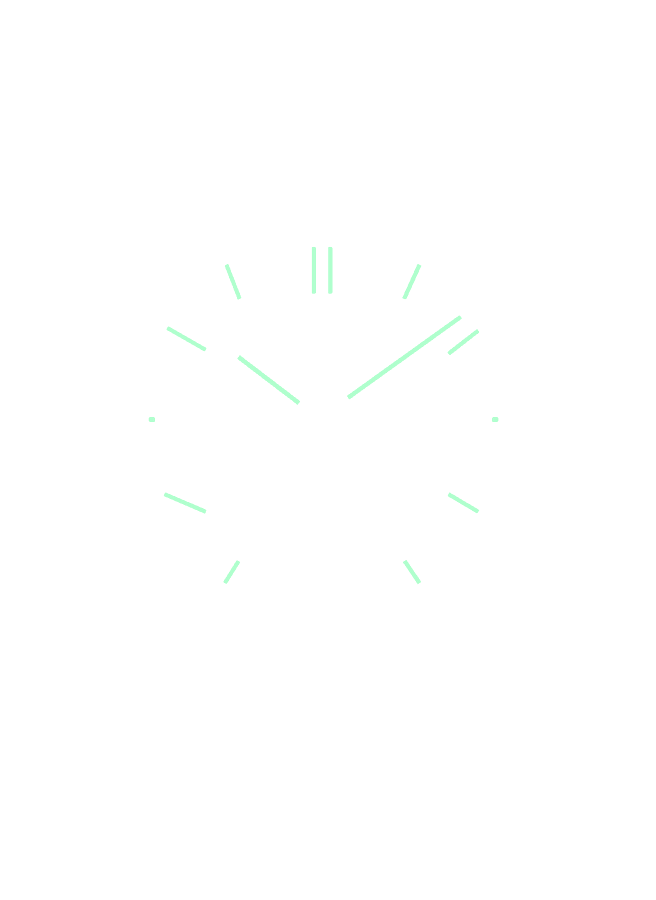
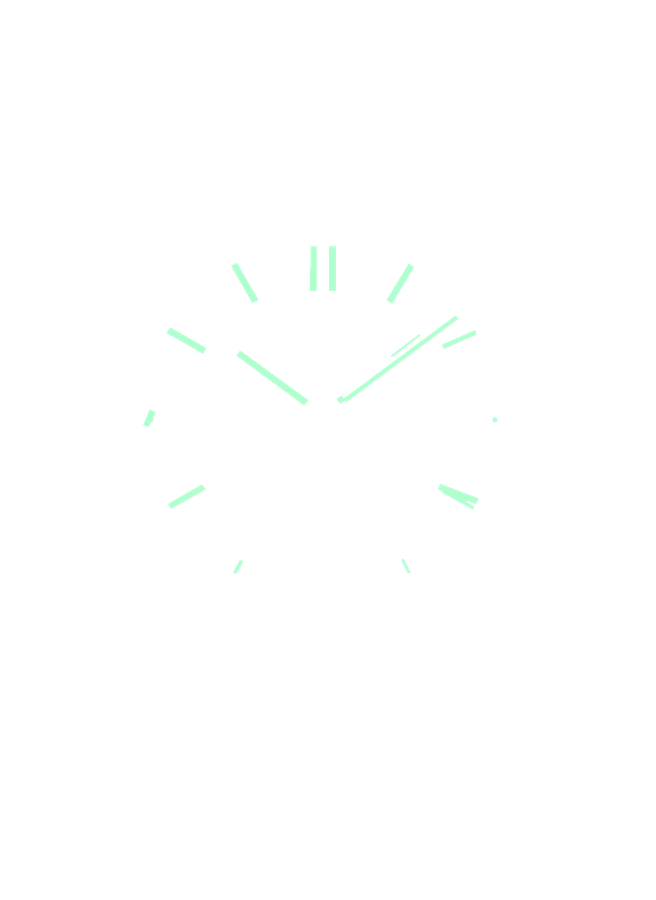
Nautilus 5711 weiß und 5740: genauere Leuchtmasken (aus dem Foto vermessen); 5740 in den Lexikonartikeln Ewiger Kalender, Mondphase und Mikrorotor
Claude-Session: https://claude.ai/code/session_01Wip4uNf6vaKskYPqRYzAdm

diff --git a/index.html b/index.html
@@ -696,7 +696,7 @@ const BRAND_STYLE = {
   "Laco": { s: 6, w: 700, ls: 1.6, o: "" }
 };
 
-const IMGV = "2026112516"; // bei neuen Bildern hochzählen (Cache)
+const IMGV = "2026112517"; // bei neuen Bildern hochzählen (Cache)
 function drawWatch(v = {}, e = null) {
   if (v.img) {
     const base = `<img class="watch wimg" src="${v.img}?v=${IMGV}" alt="${esc(((e && (e.brand + " " + e.t)) || "Uhr"))}" loading="lazy">`;

diff --git a/tools/nautmask.py b/tools/nautmask.py
@@ -1,0 +1,48 @@
+import numpy as np,sys
+from PIL import Image,ImageFilter
+sys.path.insert(0,'.')
+from lumegen import comps
+import os;R=os.path.join(os.path.dirname(os.path.abspath(__file__)),'..','assets','watches')+'/'
+def build(name,cand_fn,hub,rad,ex_circ=(),ex_box=(),minpx=40,er=1,col=(175,255,205),fill=False,dots=(),pca=False,strips=()):
+  im=Image.open(R+name+'.jpg').convert('RGB');a=np.asarray(im).astype(int);H,W,_=a.shape
+  L=a.mean(2);S=a.max(2)-a.min(2);yy,xx=np.mgrid[0:H,0:W]
+  m=cand_fn(L,S)&(np.hypot(xx-hub[0],yy-hub[1])<rad)
+  for cx,cy,cr in ex_circ: m&=np.hypot(xx-cx,yy-cy)>cr
+  for x0,y0,x1,y1 in ex_box: m[y0:y1,x0:x1]=False
+  keep=np.zeros_like(m)
+  for c in comps(m):
+    if len(c)<minpx: continue
+    hh=np.ptp(c[:,0])+1;ww=np.ptp(c[:,1])+1
+    if max(hh,ww)/max(1,min(hh,ww))<2.2 and len(c)<minpx*3: continue   # Schrift/Punkte
+    if pca:   # Rahmen + Leuchtmasse als ein Balken: Achse bestimmen, schmaleren Streifen mittig einzeichnen
+      from PIL import ImageDraw
+      pts=c[:,::-1].astype(float);mu=pts.mean(0);u,sv,vt=np.linalg.svd(pts-mu,full_matrices=False);ax=vt[0];pe=vt[1]
+      pa=(pts-mu)@ax;pb=(pts-mu)@pe;l2=(pa.max()-pa.min())/2*.86;w2=(pb.max()-pb.min())/2*.42;ca=(pa.max()+pa.min())/2;cb=(pb.max()+pb.min())/2
+      cen=mu+ca*ax+cb*pe;poly=[tuple(cen+sa*l2*ax+sb*w2*pe) for sa,sb in((-1,-1),(1,-1),(1,1),(-1,1))]
+      im2=Image.new('L',(W,H),0);ImageDraw.Draw(im2).polygon(poly,fill=255);keep|=np.asarray(im2)>0
+      continue
+    if fill:   # Fläche samt Rahmen füllen, dann kräftig einrücken: nur die Innenfläche (Leuchtmasse) bleibt
+      y0,x0=c.min(0);sub=np.zeros((hh+2,ww+2),np.uint8);sub[c[:,0]-y0+1,c[:,1]-x0+1]=255
+      f=Image.fromarray(sub).filter(ImageFilter.MaxFilter(3)).filter(ImageFilter.MinFilter(3))
+      e=np.asarray(f.filter(ImageFilter.MinFilter(2*er+1)))>127;ys,xs=np.nonzero(e);keep[ys+y0-1,xs+x0-1]=True
+    else: keep[c[:,0],c[:,1]]=True
+  for cx,cy,cr in dots: keep|=np.hypot(xx-cx,yy-cy)<=cr
+  from PIL import ImageDraw
+  for (x0,y0),(x1,y1),wd in strips:   # vorher Automatik-Reste entlang des Streifens entfernen
+    im2=Image.new('L',(W,H),0);ImageDraw.Draw(im2).line([(x0,y0),(x1,y1)],fill=255,width=int(wd*2.6));keep&=~(np.asarray(im2)>0)
+  for (x0,y0),(x1,y1),wd in strips:
+    im2=Image.new('L',(W,H),0);ImageDraw.Draw(im2).line([(x0,y0),(x1,y1)],fill=255,width=int(wd));keep|=np.asarray(im2)>0
+  mk=Image.fromarray((keep*255).astype(np.uint8))
+  if er and not fill: mk=mk.filter(ImageFilter.MinFilter(2*er+1))
+  mk=mk.filter(ImageFilter.MaxFilter(3)).filter(ImageFilter.MinFilter(3)).filter(ImageFilter.GaussianBlur(.7))
+  al=np.asarray(mk).astype(float);al=np.clip((al-40)*255/150,0,255).astype(np.uint8)
+  ov=Image.new('RGBA',(W,H),col+(0,));ov.putalpha(Image.fromarray(al))
+  if H>900: ov=ov.resize((round(W*900/H),900),Image.LANCZOS)
+  ov.save(R+'lume/'+name+'.png',optimize=True)
+  o2=im.copy();o2.paste(Image.new('RGB',im.size,(255,0,0)),(0,0),Image.fromarray(al).point(lambda v:int(v*.8)))
+  o2.crop((int(W*.15),int(H*.28),int(W*.85),int(H*.72))).save('ov_'+name[-6:]+'.png')
+# 5711 weiß: cremefarbene Leuchtmasse (S>=19) auf weißem Zifferblatt (S<12)
+build('patek-philippe-nautilus-5711-1a-white',lambda L,S:(S>=19)&(L>=185)&(L<=245),(495,716),300,ex_box=[(690,690,760,760)],minpx=60,er=1)
+# 5740: weiße Leuchtmasse in den Indizes, Hilfszifferblätter und Schrift ausgenommen
+build('patek-philippe-nautilus-5740-1g-perpetual',lambda L,S:(L>=185)&(S<=50),(469.6,608.4),262,
+  ex_circ=[(324,611.6,80),(624,615.6,80),(470.4,762,112),(469.6,608.4,22)],ex_box=[(380,460,570,530),(615,440,710,525)],minpx=40,er=0,pca=True,strips=[((646,505),(693,484),7),((503,583),(666,462),7)],dots=[(219.5,611.5,3.6),(721.5,611.5,3.6)])

diff --git a/tools/lumegen.py b/tools/lumegen.py
@@ -313,6 +313,7 @@ def gen(img, spec):
 if __name__=='__main__':
     specs=json.load(open(sys.argv[1]))
     for img,spec in specs.items():
+        if spec.get('manual'): continue   # Maske von Hand/eigenem Skript erzeugt (z. B. tools/nautmask.py)
         ov,keep=gen(img,spec)
         name=img.split('/')[-1].rsplit('.',1)[0]+'.png'
         ov.save((OUT if 'OUT' in globals() else ROOT+'assets/watches/lume/')+name,optimize=True)
